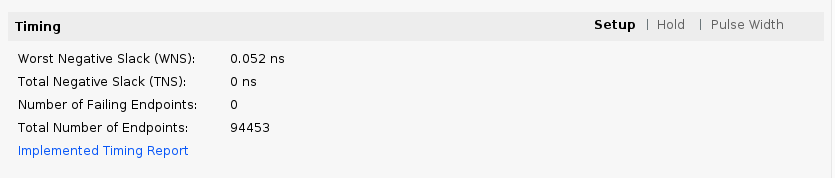
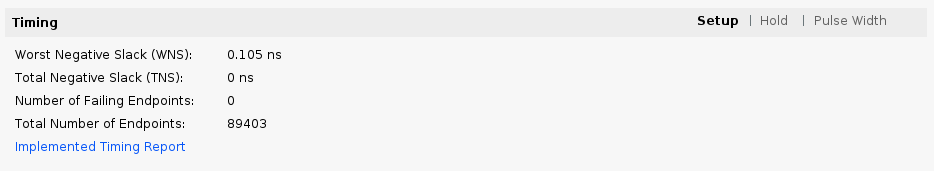
Update Ultra96v2 tutorial (#7)

diff --git a/content/posts/2022/tensil_ultra96v2.md b/content/posts/2022/tensil_ultra96v2.md
@@ -82,7 +82,7 @@ To generate a design using our chosen architecture, run the following command in
 tensil rtl -a /demo/arch/ultra96v2.tarch -s true -d 128
 ```
 
-Note the `-d 128` parameter, which specifies that the generated RTL will be compatible with 128-bit AXI interfaces supported by the ZU3EG part. This command will produce several Verilog files listed in the `ARTIFACTS` table printed out at the end. It also prints the `RTL SUMMARY` table with some of the essential parameters of the resulting RTL. We'll need to use the instruction size in bytes in the next step when designing in Vivado.
+Note the `-d 128` parameter, which specifies that the generated RTL will be compatible with 128-bit AXI interfaces supported by the ZU3EG part. This command will produce several Verilog files listed in the `ARTIFACTS` table printed out at the end. It also prints the `RTL SUMMARY` table with some of the essential parameters of the resulting RTL.
 
 ```
 -----------------------------------------------------------------------
@@ -145,13 +145,7 @@ Double-click it. Disable "Scatter Gather Engine" and "Write Channel". Change "Wi
 
 ![dma](/media/2022/tensil_ultra96v2/dma.png)
 
-Again, click the plus `+` button in the Block Diagram toolbar and select "AXI4-Stream Data Width Converter". A width converter is necessary because the Tensil architecture variants may have different instruction widths depending on memory sizes and strides.
-
-Double-click the width converter block and change "Master Interface TDATA Width" to 9 bytes as printed in the `RTL SUMMARY` we saw when running the Tensil RTL tool.
-
-![width_converter](/media/2022/tensil_ultra96v2/width_converter.png)
-
-Connect the `instruction` port on the Tensil `top` block to the `M_AXIS` port on the AXI4-Stream Data Width Converter. Then, connect `S_AXIS` on the AXI4-Stream Data Width Converter block to `M_AXIS_MM2S` on the AXI DMA block. Finally, connect `M_AXI_MM2S` on the AXI DMA block to `S_AXI_HP1_FPD` on Zynq.
+Connect the `instruction` port on the Tensil `top` block to `M_AXIS_MM2S` on the AXI DMA block. Then, connect `M_AXI_MM2S` on the AXI DMA block to `S_AXI_HP1_FPD` on Zynq.
 
 Once again, click the plus `+` button in the Block Diagram toolbar and select "AXI SmartConnect. The SmartConnect is necessary to expose DMA control registers to the Zynq CPU, which will enable software to control the DMA transactions. Double-click it and set "Number of Slave and Master Interfaces" to 1. 
 
